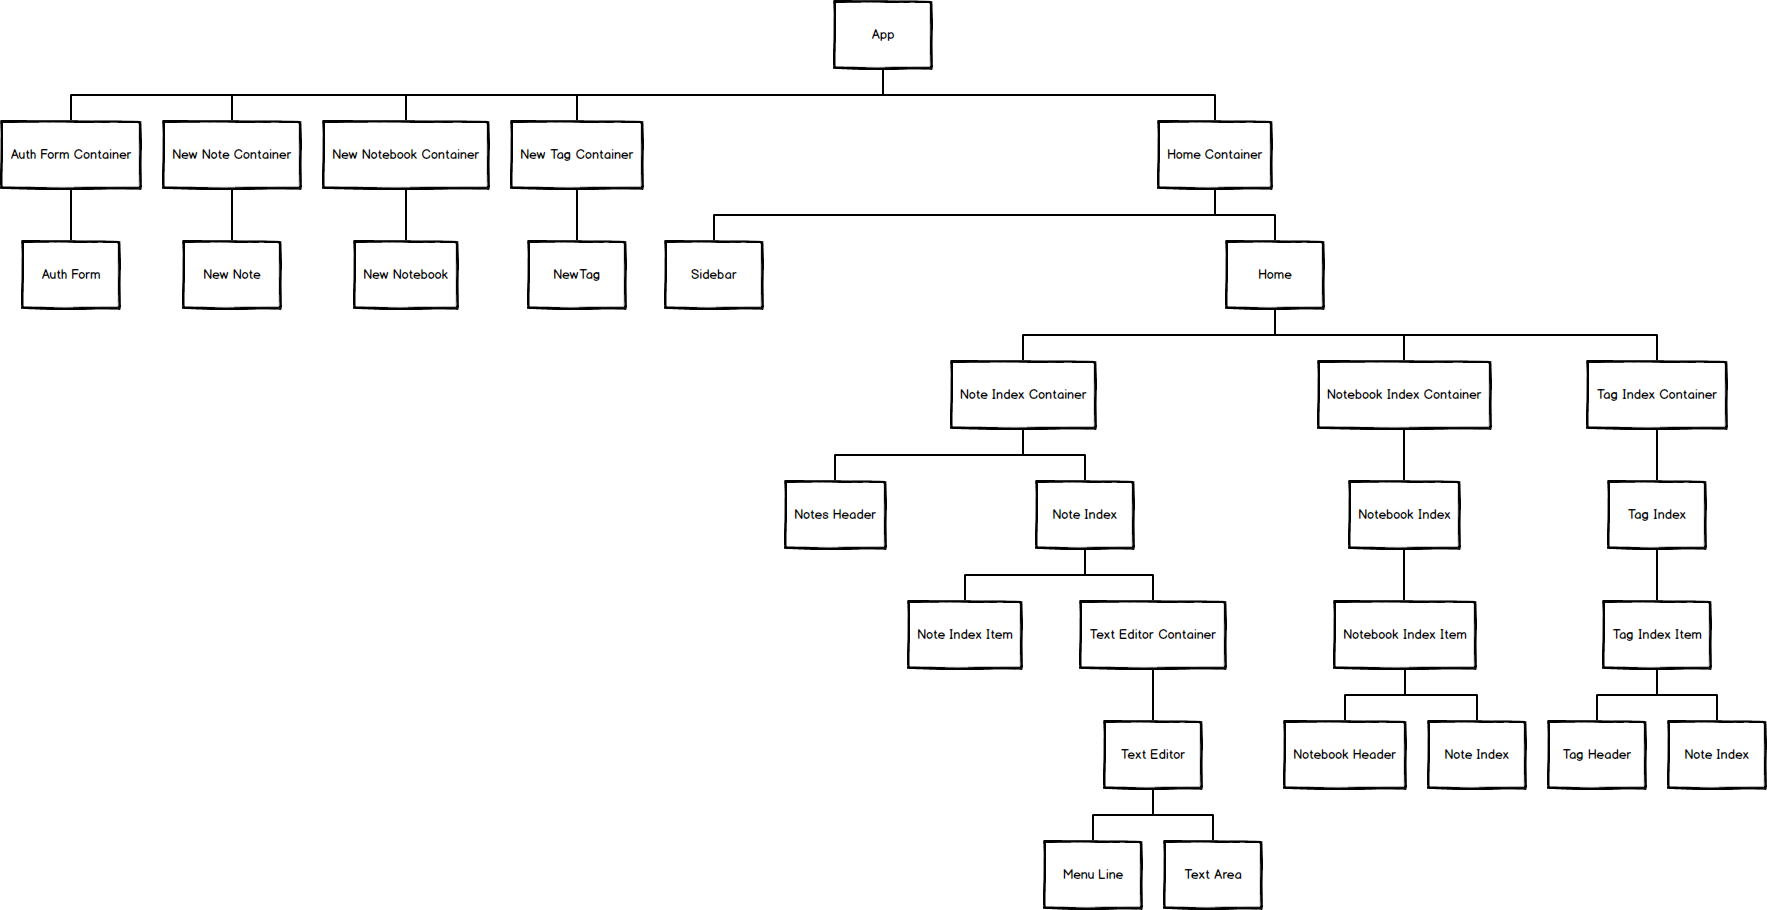
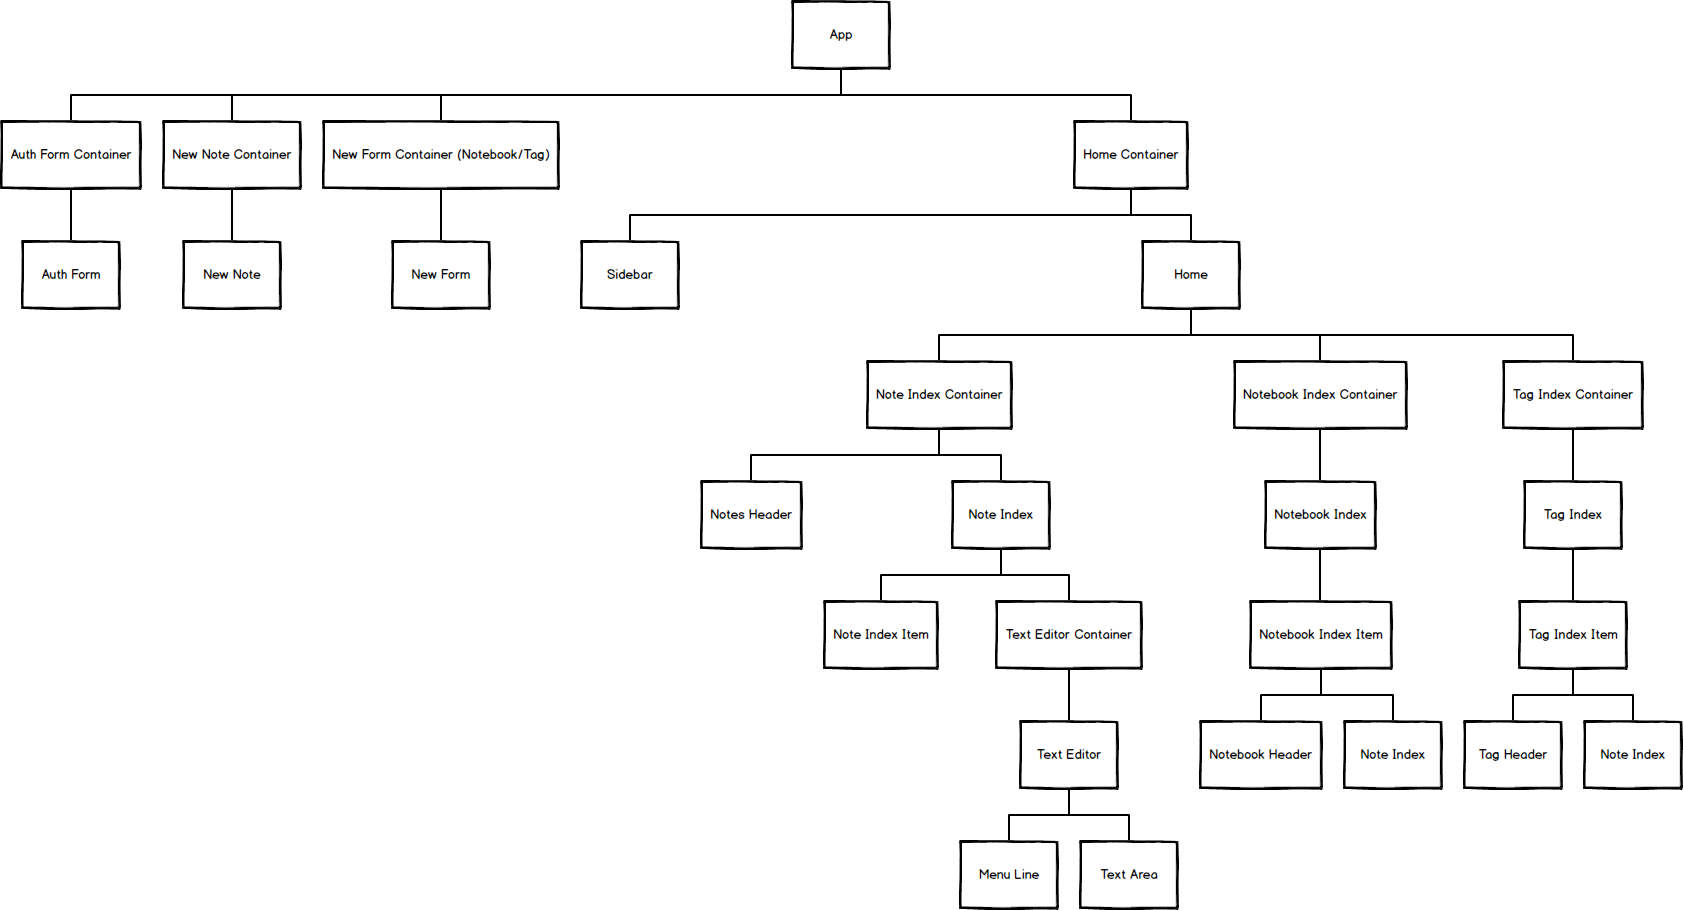
add notes file to .gitignore and add using same form for creating notebook and tag

diff --git a/docs/component-hirerarchy.md b/docs/component-hirerarchy.md
@@ -13,11 +13,8 @@
 ### NewNoteContainer
 - NewNote
 
-### NewNotebookContainer
-- NewNotebook
-
-### NewTagContainer
-- NewTag
+### NewFormContainer
+- NewForm
 
 ### HomeContainer
 - Sidebar
